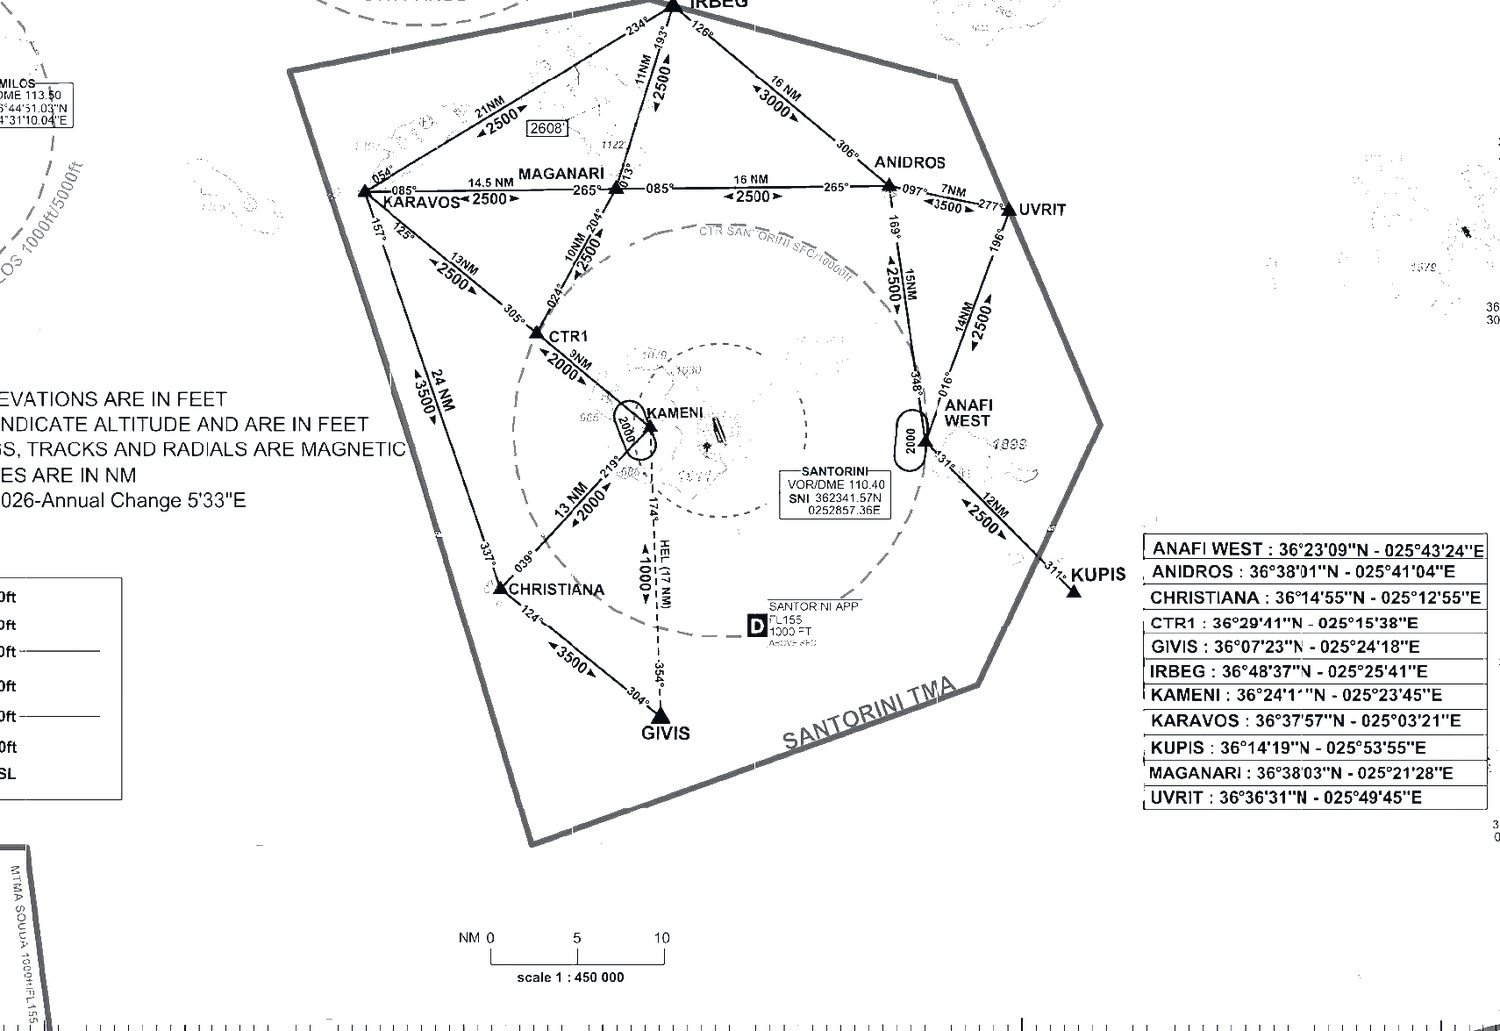
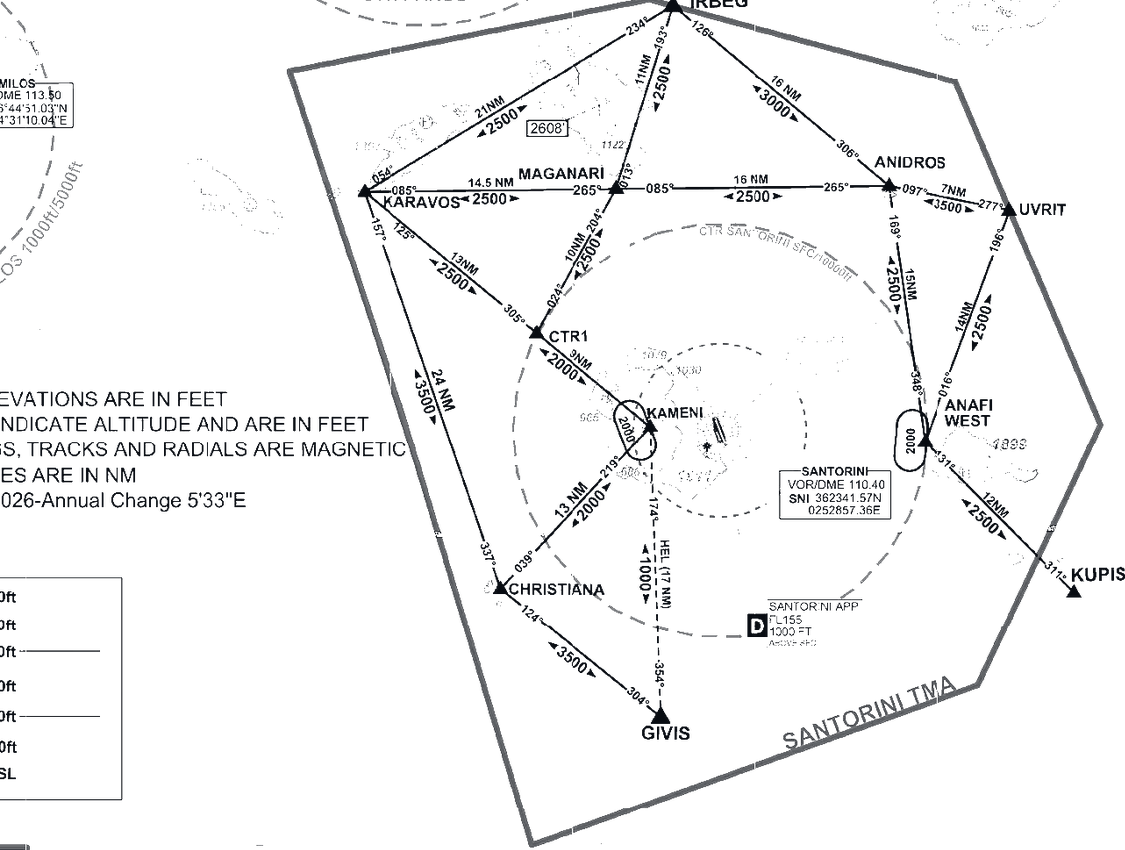
Add files via upload

diff --git a/index.html b/index.html
@@ -1018,7 +1018,7 @@ body.pzl-screen-locked #lockMapBtn {
 #metarWindBtn.metar-hidden{background:#6b7280!important}
 </style>
 
-<meta name="pzl-build" content="PZL_VFR_ALL_AIRPORTS_LINEWORK_D443">
+<meta name="pzl-build" content="PZL_VFR_ALL_AIRPORTS_ALIGNED_D444">
 
 <style id="fire-required-search-style">
 #searchBox:disabled,
@@ -8129,7 +8129,7 @@ ${formatLatLonDDMLines(currentGps.lat, currentGps.lon)}
 
       window.addEventListener("load", () => {
         navigator.serviceWorker
-          .register("service-worker.js", {scope:"./"})
+          .register("service-worker.js?v=444", {scope:"./"})
           .then(() => navigator.serviceWorker.ready)
           .then(registration => {
             offlineReady = true;
@@ -13414,7 +13414,7 @@ body.pzl-route-tap-map #map{cursor:crosshair!important;}
   function viewTouchesAny(bounds){try{const v=map.getBounds();return bounds.some(b=>v.intersects(b));}catch(e){return false;}}
   function currentCenterDescription(centers){if(navContext())return 'NAV: '+centers.map(c=>(c.icao?c.icao+' ':'')+c.name).join(' · ');return centers.map(c=>(c.auto?'AUTO ':'')+c.role+' '+(c.icao?c.icao+' ':'')+c.name).join(' · ');}
   function installCandidate(candidates,index,seq){if(!vfrActive||seq!==vfrSeq)return;if(index>=candidates.length){setStatus('VFR Routes + ύψη: αποτυχία φόρτωσης χαρτογραφικών πλακιδίων. Έλεγξε σύνδεση και δοκίμασε ξανά.',true);return;}const centers=activeCenters();if(!centers.length){removeLayer();setStatus(navContext()?'NAV: επίλεξε τουλάχιστον ένα αεροδρόμιο.':'Πράσινισε από ένα έως τρία α/δ.',true);return;}const localBounds=selectedLocalBounds(centers);removeLayer();ensurePane();const code=candidates[index],url=TILE_ROOT+code+'/aero/latest';let loads=0,errors=0,settled=false;vfrCycle=code==='latest'?'LATEST':code;setStatus(`Φόρτωση VFR διαδρομών, σημείων και υψών · AIRAC ${vfrCycle}…`,true);const layer=makeLocalTileLayer(url,localBounds);vfrLayer=layer;function success(){if(settled||seq!==vfrSeq)return;settled=true;setStatus(`VFR ON · διαδρομές που συνδέουν VFR σημεία + altitude labels · AIRAC ${vfrCycle}\n${currentCenterDescription(centers)}`,false);}function fail(){if(settled||seq!==vfrSeq)return;settled=true;try{map.removeLayer(layer);}catch(e){}if(vfrLayer===layer)vfrLayer=null;installCandidate(candidates,index+1,seq);}layer.on('tileload',()=>{loads++;if(loads===1)success();});layer.on('tileerror',()=>{errors++;if(errors>=5&&loads===0&&map.getZoom()>=VFR_MIN_ZOOM&&viewTouchesAny(localBounds))fail();});layer.addTo(map);if(map.getZoom()<VFR_MIN_ZOOM)setStatus(`VFR ON. Κάνε zoom ${VFR_MIN_ZOOM}+ για διαδρομές και ύψη.`,false);setTimeout(()=>{if(seq!==vfrSeq||settled)return;if(loads>0){success();return;}if(map.getZoom()<VFR_MIN_ZOOM||!viewTouchesAny(localBounds)){setStatus(`VFR ON στις επιλεγμένες περιοχές. Πάτησε 🔍 σε α/δ για λεπτομερή προβολή διαδρομών/υψών.`,false);return;}fail();},8500);}
-  function reloadVfr(centerFirst){if(!vfrActive)return;const centers=activeCenters(),seq=++vfrSeq;installCandidate(airacCandidates(),0,seq);if(centerFirst!==false&&centers.length)map.setView([centers[0].lat,centers[0].lon],Math.max(DETAIL_ZOOM,map.getZoom()||DETAIL_ZOOM));}
+  function reloadVfr(centerFirst){if(!vfrActive)return;const centers=activeCenters();++vfrSeq;removeLayer();setStatus('VFR ON · επίσημα ευθυγραμμισμένα τοπικά charts χωρίς διπλό υπόβαθρο.',false);if(centerFirst!==false&&centers.length)map.setView([centers[0].lat,centers[0].lon],Math.max(DETAIL_ZOOM,map.getZoom()||DETAIL_ZOOM));}
   function activateVfr(centerFirst){if(!mapReady())return;vfrActive=true;document.body.classList.add('pzl-vfr-active');try{localStorage.setItem(VFR_KEY,'1');}catch(e){}renderContextUi();syncMaster();reloadVfr(centerFirst);}
   function deactivateVfr(){vfrActive=false;++vfrSeq;removeLayer();document.body.classList.remove('pzl-vfr-active');try{localStorage.setItem(VFR_KEY,'0');}catch(e){}setStatus('VFR Routes + ύψη OFF — standard χάρτης.',false);syncMaster();}
   function toggleVfr(){if(vfrActive)deactivateVfr();else activateVfr(true);}
@@ -13452,7 +13452,7 @@ body.pzl-route-tap-map #map{cursor:crosshair!important;}
   function mapReady(){return typeof map!=='undefined'&&window.L&&map&&typeof map.createPane==='function'}
   function esc(v){return String(v==null?'':v).replace(/[&<>"']/g,c=>({'&':'&amp;','<':'&lt;','>':'&gt;','"':'&quot;',"'":'&#39;'}[c]))}
   function selectedCenters(){try{return window.PZL_VFR_ROUTES&&typeof window.PZL_VFR_ROUTES.selected==='function'?window.PZL_VFR_ROUTES.selected()||[]:[]}catch(e){return[]}}
-  function isActive(){return document.body.classList.contains('pzl-vfr-active')}
+  function isActive(){return false}
   function centersKey(cs){return cs.map(c=>(c.icao||'')+'|'+c.name+'|'+Number(c.lat).toFixed(4)+'|'+Number(c.lon).toFixed(4)).sort().join('::')}
   function setStatus(msg,warn){
     ensureUi();
@@ -13595,7 +13595,7 @@ body.pzl-route-tap-map #map{cursor:crosshair!important;}
     const cs=selectedCenters(),key=(isActive()?'1':'0')+'|'+centersKey(cs);
     if(key!==lastKey){lastKey=key;if(isActive())updateRoutes();else{++seq;clearRoutes();setStatus('VFR OFF — standard χάρτης.',false)}}
   }
-  function install(){ensureUi();tick();setInterval(tick,900);window.PZL_D430={build:BUILD,reload:updateRoutes}}
+  function install(){ensureUi();++seq;clearRoutes();setStatus('Χρησιμοποιείται μόνο το επίσημο ευθυγραμμισμένο VFR chart.',false);window.PZL_D430={build:BUILD,reload:clearRoutes}}
   if(document.readyState==='loading')document.addEventListener('DOMContentLoaded',install);else install();
 })();
 </script>
@@ -13638,29 +13638,40 @@ body.pzl-route-tap-map #map{cursor:crosshair!important;}
 <script id="pzl-d440-js">
 (function(){
 'use strict';
-const BUILD='PZL_VFR_ALL_AIRPORTS_LINEWORK_D443';
+const BUILD='PZL_VFR_ALL_AIRPORTS_ALIGNED_D444';
 let layer=null,statusEl=null,lastKey='';
 const C={
- LGMT:{name:'ΜΥΤΙΛΗΝΗ',b:[[38.8167,25.4389],[39.5733,26.8233]]},LGAD:{name:'ΑΝΔΡΑΒΙΔΑ',b:[[37.50,20.50],[39.00,22.20]]},LGAV:{name:'ΑΘΗΝΑ',b:[[37.20,22.65],[39.10,25.35]]},
- LGBL:{name:'ΝΕΑ ΑΓΧΙΑΛΟΣ',b:[[38.25,21.30],[40.40,24.40]]},LGIR:{name:'ΗΡΑΚΛΕΙΟ',b:[[34.55,23.10],[36.40,27.40]]},
- LGKL:{name:'ΚΑΛΑΜΑΤΑ',b:[[35.75,20.40],[38.40,23.60]]},LGKO:{name:'ΚΩΣ',b:[[36.20,26.50],[37.35,27.40]]},
- LGKP:{name:'ΚΑΡΠΑΘΟΣ',b:[[34.70,26.45],[36.20,28.15]]},LGKR:{name:'ΚΕΡΚΥΡΑ',b:[[39.00,19.45],[40.15,21.05]]},
- LGKV:{name:'ΚΑΒΑΛΑ',b:[[40.50,23.50],[41.50,25.67]]},LGMK:{name:'ΜΥΚΟΝΟΣ',b:[[36.35,24.00],[38.45,26.60]]},
- LGPA:{name:'ΠΑΡΟΣ',b:[[36.80,24.60],[37.40,25.55]]},LGRP:{name:'ΡΟΔΟΣ',b:[[35.30,27.00],[37.55,29.30]]},
- LGSA:{name:'ΧΑΝΙΑ',b:[[34.50,22.40],[36.60,25.80]]},LGSK:{name:'ΣΚΙΑΘΟΣ',b:[[38.15,22.15],[40.15,24.85]]},
- LGSM:{name:'ΣΑΜΟΣ',b:[[37.30,26.05],[38.25,27.20]]},LGSR:{name:'ΣΑΝΤΟΡΙΝΗ',b:[[35.45,24.15],[37.35,26.80]]},
- LGSY:{name:'ΣΚΥΡΟΣ',b:[[37.90,23.10],[40.15,25.95]]},LGTS:{name:'ΘΕΣΣΑΛΟΝΙΚΗ',b:[[39.45,21.45],[41.75,24.55]]},
- LGLR:{name:'ΛΑΡΙΣΑ',b:[[38.35,20.90],[40.85,24.20]]},LGTG:{name:'ΤΑΝΑΓΡΑ',b:[[37.15,22.05],[39.60,25.15]]}
+ LGMT:{name:'ΜΥΤΙΛΗΝΗ',b:[[38.84135,25.42120],[39.54660,26.80656]]},
+ LGAD:{name:'ΑΝΔΡΑΒΙΔΑ',b:[[37.36,19.55],[38.75,22.16]]},
+ LGAV:{name:'ΑΘΗΝΑ',b:[[36.95,22.20],[38.18,25.10]]},
+ LGBL:{name:'ΝΕΑ ΑΓΧΙΑΛΟΣ',b:[[38.45,21.65],[40.02,24.58]]},
+ LGIR:{name:'ΗΡΑΚΛΕΙΟ',b:[[34.75,24.75],[36.00,27.55]]},
+ LGKL:{name:'ΚΑΛΑΜΑΤΑ',b:[[36.19,21.37],[37.50,23.44]]},
+ LGKO:{name:'ΚΩΣ',b:[[36.45,26.25],[37.05,27.38]]},
+ LGKP:{name:'ΚΑΡΠΑΘΟΣ',b:[[35.04,26.48],[35.96,27.58]]},
+ LGKR:{name:'ΚΕΡΚΥΡΑ',b:[[38.45,18.85],[40.35,22.10]]},
+ LGKV:{name:'ΚΑΒΑΛΑ',b:[[40.18,23.33],[41.55,25.72]]},
+ LGLR:{name:'ΛΑΡΙΣΑ',b:[[39.15,20.95],[40.42,24.35]]},
+ LGMK:{name:'ΜΥΚΟΝΟΣ',b:[[37.08,24.82],[37.60,25.58]]},
+ LGPA:{name:'ΠΑΡΟΣ',b:[[36.65,24.53],[37.35,25.55]]},
+ LGRP:{name:'ΡΟΔΟΣ',b:[[35.45,26.90],[36.62,29.05]]},
+ LGSA:{name:'ΧΑΝΙΑ',b:[[35.00,23.25],[35.68,24.95]]},
+ LGSK:{name:'ΣΚΙΑΘΟΣ',b:[[38.91,23.10],[39.46,24.17]]},
+ LGSM:{name:'ΣΑΜΟΣ',b:[[37.378,26.128],[37.887,27.122]]},
+ LGSR:{name:'ΣΑΝΤΟΡΙΝΗ',b:[[35.99,24.62],[36.81,25.98]]},
+ LGSY:{name:'ΣΚΥΡΟΣ',b:[[38.45,23.41],[39.65,25.54]]},
+ LGTG:{name:'ΤΑΝΑΓΡΑ',b:[[38.05,22.39],[39.015,24.24]]},
+ LGTS:{name:'ΘΕΣΣΑΛΟΝΙΚΗ',b:[[39.70,22.10],[41.00,24.00]]}
 };
 const P={AGIA:[39.24916667,26.28194444],AMANI:[39.33222222,26.49944444],ERESO:[39.29194444,25.94361111],FOKKAS:[39.01555556,26.01666667],GERA:[39.12833333,26.40805556],KALONI:[39.16555556,26.29861111],MIMMIS:[38.95694444,26.28388889],MIRSINIA:[38.90694444,26.50833333],MOLIVOS:[39.37861111,26.16166667],PALIOS:[39.325,26.44083333],PANNOS:[38.87472222,26.24111111],PLOMARI:[38.94083333,26.35666667],POLIKNI:[39.08777778,26.15138889],SIKAMIA:[39.39472222,26.35138889],LSV:[39.2313,26.42532222]};
 const LGMT=[['MOLIVOS','SIKAMIA',9,3500],['SIKAMIA','PALIOS',6,3500],['PALIOS','AMANI',3,2500],['PALIOS','LSV',6,2500],['AMANI','LSV',7,2500],['PALIOS','AGIA',9,2500],['AGIA','KALONI',5,3500],['KALONI','LSV',7,2500],['KALONI','GERA',6,3500],['GERA','LSV',6,2500],['ERESO','MOLIVOS',11,4500],['ERESO','KALONI',18,4500],['ERESO','POLIKNI',16,4500],['ERESO','FOKKAS',17,4500],['FOKKAS','POLIKNI',8,4500],['POLIKNI','KALONI',8,4500],['POLIKNI','MIMMIS',10,4500],['FOKKAS','MIMMIS',13,4500],['MIMMIS','PANNOS',5,4500],['MIMMIS','PLOMARI',4,2500],['PANNOS','PLOMARI',7,2500],['PLOMARI','MIRSINIA',7,1500]].map(r=>({from:r[0],to:r[1],nm:r[2],alt:r[3],limit:r[3]>=3500?'min':'max'}));
 function mapReady(){return typeof map!=='undefined'&&window.L&&map&&typeof map.createPane==='function'}function active(){return document.body.classList.contains('pzl-vfr-active')}function centers(){try{return window.PZL_VFR_ROUTES&&typeof window.PZL_VFR_ROUTES.selected==='function'?(window.PZL_VFR_ROUTES.selected()||[]):[]}catch(e){return[]}}function ids(){return Array.from(new Set(centers().map(c=>String(c.icao||'').toUpperCase()).filter(i=>C[i])))}function key(){return(active()?'1':'0')+'|'+ids().sort().join(',')}
 function ensureUi(){const base=document.getElementById('pzlVfrStatus'),panel=document.querySelector('#pzlVfrRoutesPanel .pzl-map-menu-card');if(!document.getElementById('pzlD440Status')&&panel){const d=document.createElement('div');d.id='pzlD440Status';if(base&&base.parentNode)base.parentNode.insertBefore(d,base.nextSibling);else panel.appendChild(d)}statusEl=document.getElementById('pzlD440Status');const note=document.querySelector('#pzlVfrRoutesPanel .pzl-vfr-note');if(note&&note.textContent!=='Εμφανίζονται μόνο οι επίσημες συνεχείς VFR διαδρομές και οι δημοσιευμένες ενδείξεις πορείας, NM και ύψους. Χωρίς ολόκληρη εικόνα PDF και χωρίς τεχνητές διακεκομμένες συνδέσεις.')note.textContent='Εμφανίζονται μόνο οι επίσημες συνεχείς VFR διαδρομές και οι δημοσιευμένες ενδείξεις πορείας, NM και ύψους. Χωρίς ολόκληρη εικόνα PDF και χωρίς τεχνητές διακεκομμένες συνδέσεις.'}
-function status(s,w){ensureUi();if(statusEl){statusEl.textContent=s;statusEl.classList.toggle('warn',!!w)}}function pane(){let p=map.getPane('pzlD440Pane');if(!p)p=map.createPane('pzlD440Pane');p.style.zIndex='535';p.style.pointerEvents='none'}function clear(){if(layer){try{map.removeLayer(layer)}catch(e){}layer=null}}function removeOld(){try{const kill=[];map.eachLayer(l=>{const p=l&&l.options&&l.options.pane;if(['pzlD430RoutesPane','pzlD434RoutesPane','pzlD435RoutesPane','pzlD439RoutesPane','pzlD436ChartPane'].includes(p))kill.push(l)});kill.forEach(l=>map.removeLayer(l))}catch(e){}}
+function status(s,w){ensureUi();if(statusEl){statusEl.textContent=s;statusEl.classList.toggle('warn',!!w)}}function pane(){let p=map.getPane('pzlD440Pane');if(!p)p=map.createPane('pzlD440Pane');p.style.zIndex='535';p.style.pointerEvents='none'}function clear(){if(layer){try{map.removeLayer(layer)}catch(e){}layer=null}}function removeOld(){try{const kill=[];map.eachLayer(l=>{const p=l&&l.options&&l.options.pane;if(['pzlD430RoutesPane','pzlD434RoutesPane','pzlD435RoutesPane','pzlD439RoutesPane','pzlD436ChartPane','pzlVfrRoutesPane'].includes(p))kill.push(l)});kill.forEach(l=>map.removeLayer(l))}catch(e){}}
 function ib(a,b){const r=Math.PI/180,p1=a[0]*r,p2=b[0]*r,dl=(b[1]-a[1])*r;return(Math.atan2(Math.sin(dl)*Math.cos(p2),Math.cos(p1)*Math.sin(p2)-Math.sin(p1)*Math.cos(p2)*Math.cos(dl))*180/Math.PI+360)%360}function ang(a,b){let q=Math.atan2(b[0]-a[0],b[1]-a[1])*180/Math.PI;if(q>90)q-=180;if(q<-90)q+=180;return q}function at(a,b,t){return[a[0]+(b[0]-a[0])*t,a[1]+(b[1]-a[1])*t]}function fc(v){return String(Math.round(v)%360).padStart(3,'0')+'°'}
 function icon(r,a,b){const c1=fc(ib(a,b)),c2=fc(ib(b,a)),q=ang(a,b),lm=r.limit==='max'?'MAX':'MIN';return L.divIcon({className:'',html:`<div class="pzl-d440-route-label" style="transform:rotate(${q.toFixed(1)}deg)"><span class="crs">${c1} · ${r.nm} NM · ${c2}</span><span class="alt ${r.limit}">${lm} ${r.alt} ft</span></div>`,iconSize:[1,1],iconAnchor:[0,0]})}
 function drawLGMT(){LGMT.forEach(r=>{const a=P[r.from],b=P[r.to];L.polyline([a,b],{pane:'pzlD440Pane',color:'#fff',weight:7,opacity:.84,lineCap:'round'}).addTo(layer);L.polyline([a,b],{pane:'pzlD440Pane',color:'#111',weight:3,opacity:.98,lineCap:'round'}).addTo(layer);L.marker(at(a,b,.53),{pane:'pzlD440Pane',icon:icon(r,a,b),interactive:false}).addTo(layer)})}
-function render(){clear();removeOld();if(!mapReady()||!active()){status('VFR OFF — δεν εμφανίζονται διαδρομές.',false);return}const a=ids();if(!a.length){status('Δεν επιλέχθηκε α/δ με διαθέσιμο VFR chart.',true);return}pane();layer=L.layerGroup();a.forEach(i=>{const c=C[i];L.imageOverlay(`./VFR_${i}.png?v=442`,c.b,{pane:'pzlD440Pane',opacity:.96,interactive:false,crossOrigin:false}).addTo(layer)});layer.addTo(map);status(a.join(' · ')+'\nΕπίσημες συνεχείς διαδρομές, πορείες, NM και ενδείξεις ύψους. Χωρίς πλήρη εικόνα chart και χωρίς τεχνητές διακεκομμένες.',false)}
+function render(){clear();removeOld();if(!mapReady()||!active()){status('VFR OFF — δεν εμφανίζονται διαδρομές.',false);return}const a=ids();if(!a.length){status('Δεν επιλέχθηκε α/δ με διαθέσιμο VFR chart.',true);return}pane();layer=L.layerGroup();a.forEach(i=>{const c=C[i];L.imageOverlay(`./VFR_${i}.png?v=444`,c.b,{pane:'pzlD440Pane',opacity:.96,interactive:false,crossOrigin:false}).addTo(layer)});layer.addTo(map);status(a.join(' · ')+'\nΕπίσημες συνεχείς διαδρομές, πορείες, NM και ενδείξεις ύψους. Χωρίς πλήρη εικόνα chart και χωρίς τεχνητές διακεκομμένες.',false)}
 function tick(){ensureUi();if(!mapReady())return;const k=key();if(k!==lastKey){lastKey=k;render()}}function install(){ensureUi();tick();setInterval(tick,850);window.PZL_D440={build:BUILD,reload:render,airports:Object.keys(C)}}if(document.readyState==='loading')document.addEventListener('DOMContentLoaded',install);else install();
 })();
 </script>
@@ -13753,6 +13764,6 @@ body.pzl-d442-topo-active #pzlMapModeBtn{background:#157347!important}
 </script>
 <!-- PZL_MAP_MENU_TOPO_BASE_D442_END -->
 
-<!-- PZL_MOBILE_FREEZE_FIX_D443: removed self-triggering MutationObservers -->
+<!-- PZL_VFR_ALIGNMENT_FIX_D444: removed self-triggering MutationObservers -->
 </body>
 </html>

diff --git a/service-worker.js b/service-worker.js
@@ -1,4 +1,4 @@
-const PZL_BUILD = "PZL_MAP_TOPO_LGMT_LINEWORK_20260703D443";
+const PZL_BUILD = "PZL_MAP_TOPO_VFR_ALIGNED_20260703D444";
 const APP_CACHE = "pzl-app-" + PZL_BUILD;
 const TILE_CACHE = "pzl-map-tiles-v2";
 const CACHE_PREFIX = "pzl-app-";
